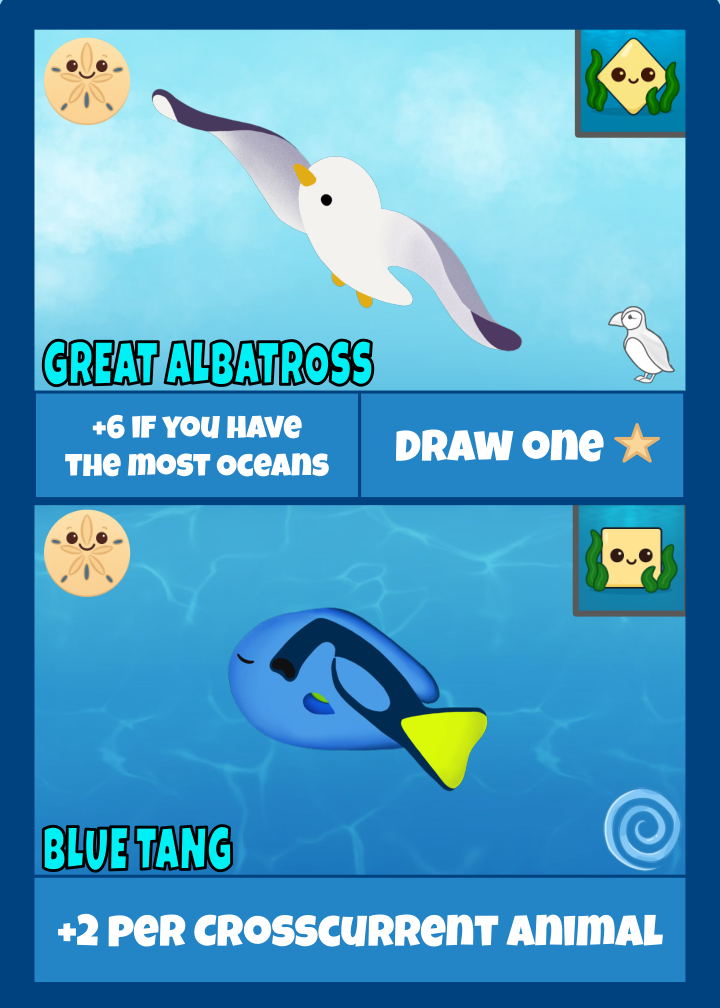
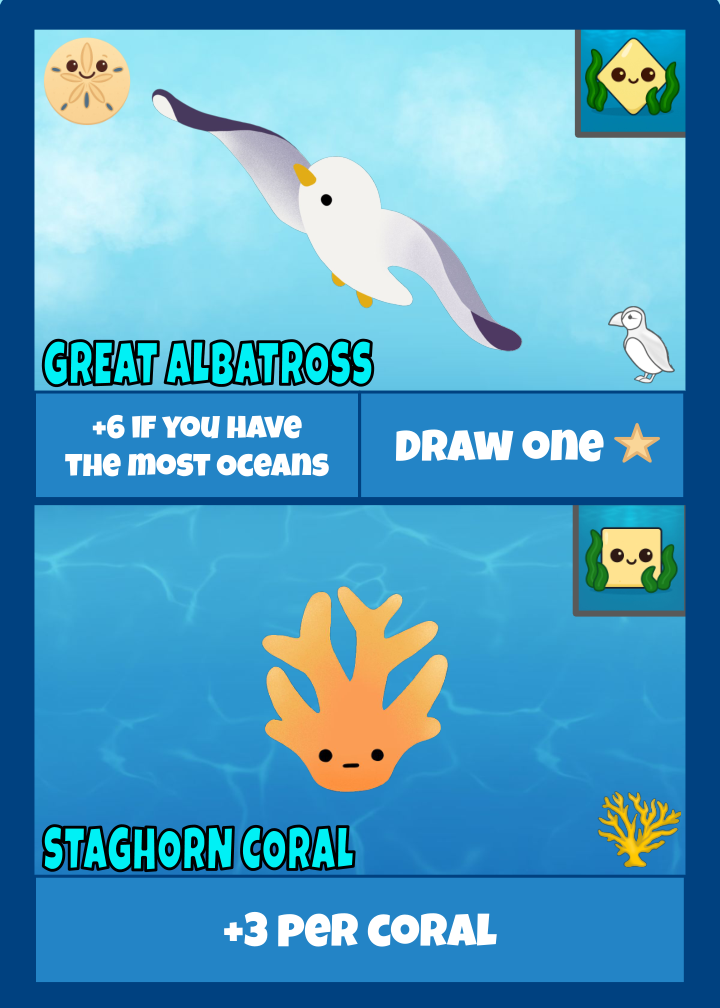
Fix swapped card art: Staghorn Coral / Blue Tang (uid 34 & 36)
The V12 art export swapped two horizontal card faces: uid 34's cell
showed Blue Tang art while uid 36's cell showed Staghorn Coral art.
The card database, deck-builder strategies, and tutorial all correctly
map uid 34 -> Staghorn Coral and uid 36 -> Blue Tang, so the score
breakdown (which uses the DB name) labeled the Staghorn-looking card
as "Blue Tang".

Swapped the two mismatched art cells (page_17/page_18 bottom halves) so
the art matches the data everywhere, and bumped CARD_IMAGE_VERSION to
bust the 1-year immutable card-art cache. No game-logic/data changes.

Audited all 96 horizontal + 88 vertical + 69 ocean card faces against
the DB; this was the only mismatch.

Changed region(s): [[0.0611, 0.5843, 0.9167, 0.9534], [0.0611, 0.4921, 0.1833, 0.6151], [0.825, 0.7688, 0.9472, 0.8611]]

diff --git a/multiplayer/client/js/preview-app.js b/multiplayer/client/js/preview-app.js
@@ -4,7 +4,7 @@
    * ================================================================ */
 
   window.__FISH_API_BASE__ = "https://play.currentsandcritters.com";
-  const CARD_IMAGE_VERSION = "20260716-v12";
+  const CARD_IMAGE_VERSION = "20260717-v12b";
 
   // ── App version + update detection ──────────────────────────────────────
   // APP_VERSION → shown in the Alpha badge ("ALPHA V<APP_VERSION>").
